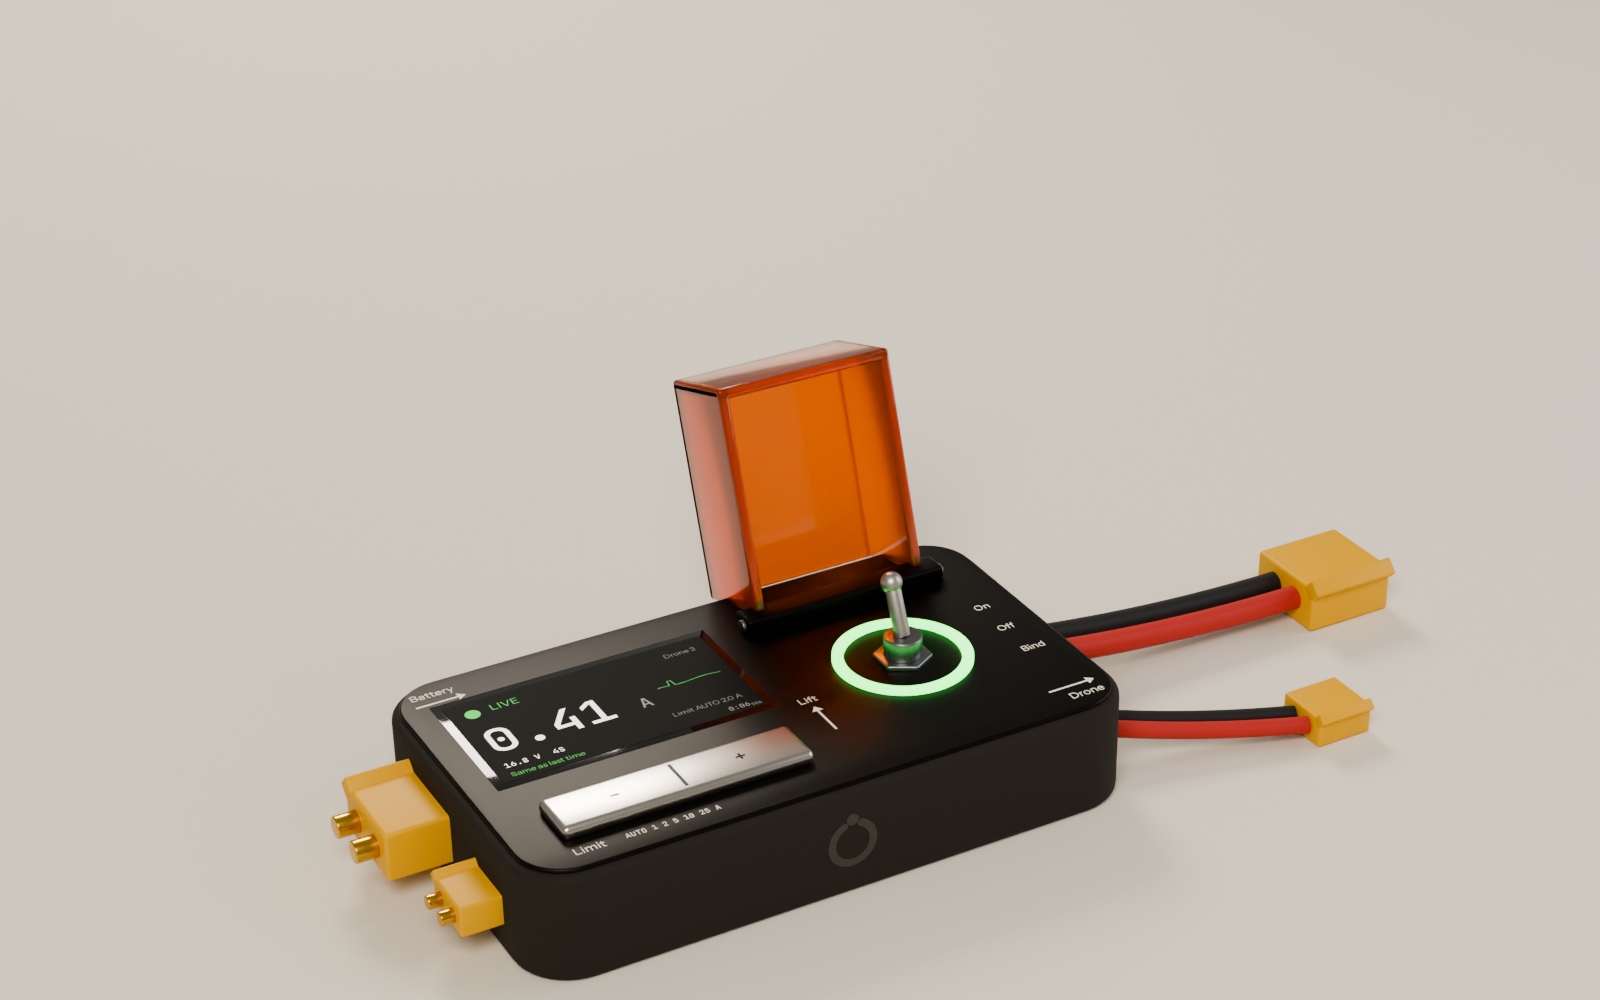
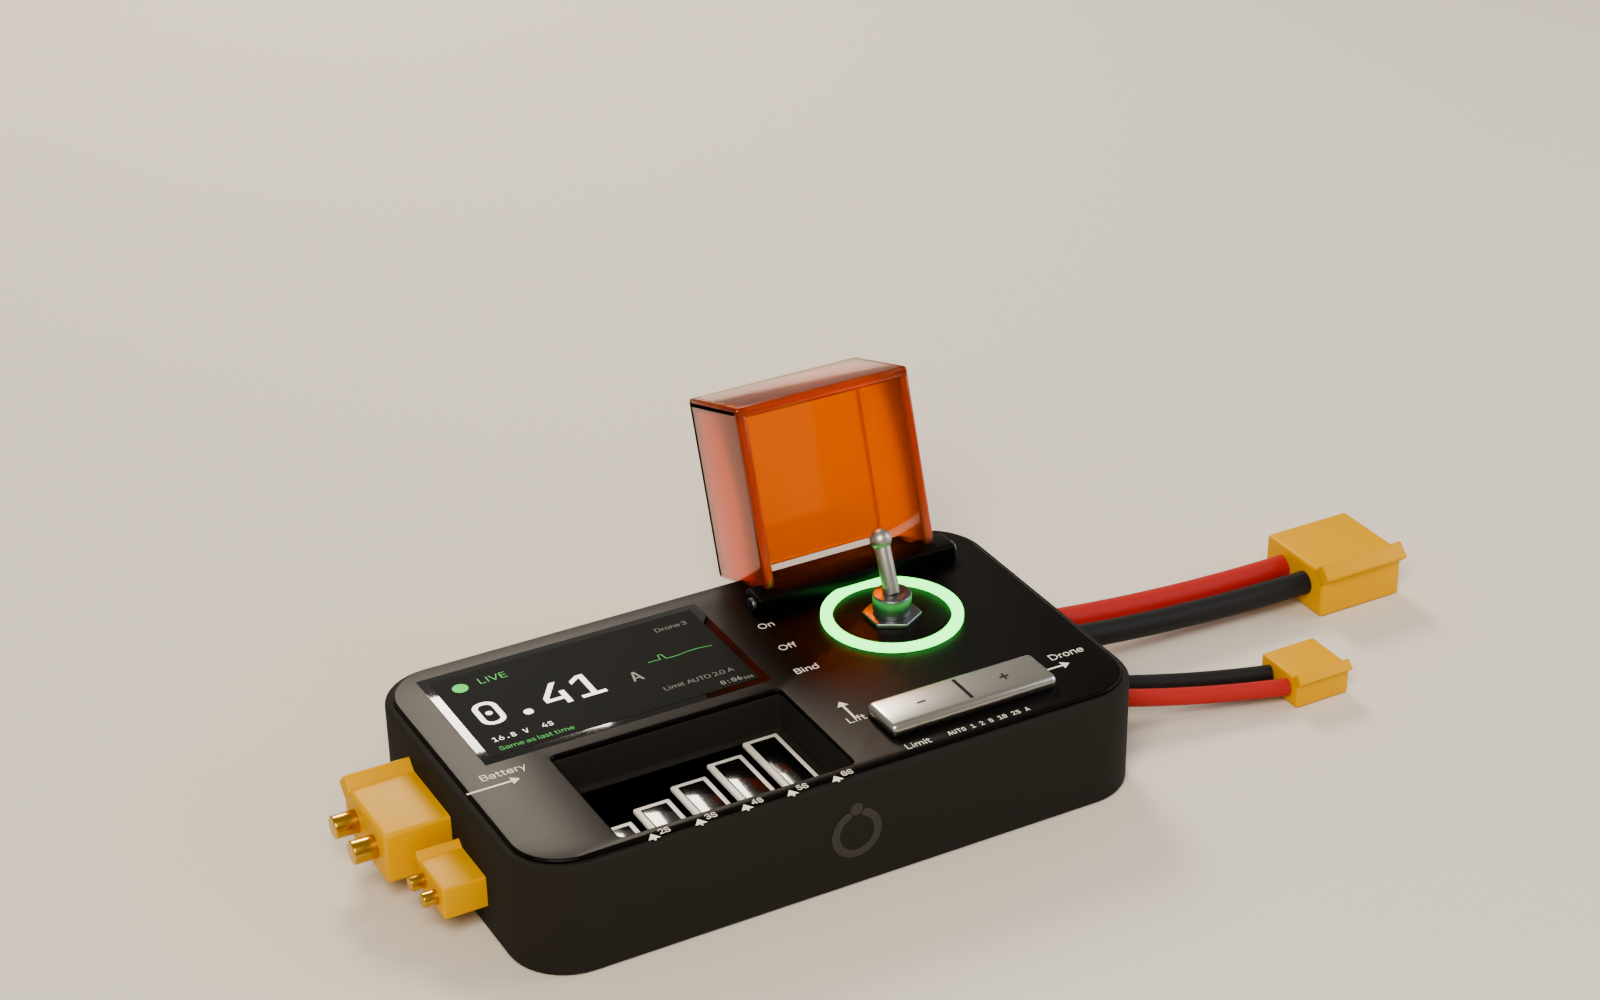
README: layout A assembly (top-entry well, drone leads, M3 holes), mechanical notes; case model follows the board
Claude-Session: https://claude.ai/code/session_01SBnFJLvm1wBa1jZy4RXnma

diff --git a/smokebreak/design/arm/arm.py b/smokebreak/design/arm/arm.py
@@ -30,20 +30,45 @@ UI_VIDEO = os.path.join(SB, 'ui', 'arm-sequence.mp4')
 
 # ---------------------------------------------------------------- geometry
 W, D, H, R = 100.0, 58.0, 18.0, 9.0       # body
-TX, TY = 70.0, 31.0                        # toggle, face coords (x from left, y from back) = PCB (67, 28) + 3 mm wall
-HY = 12.0                                  # guard hinge line, face y
-GL, GW, GH = 36.0, 30.0, 17.0              # guard length, width, wall height
+WALL = 3.0                                 # the PCB (94 x 52) sits 3 mm in from every outside face
+PCB_Z = 4.5                                # its top face (11.5 mm under the panel's underside)
+TX, TY = 76.2, 22.5                        # toggle, face coords (x from left, y from back) = PCB (73.2, 19.5) + wall
+HY = 10.5                                  # guard hinge line, face y
+GL, GW, GH = 29.0, 30.0, 17.0              # guard length (its tip over the hall switch at PCB y 36.6), width, height
 RING = 10.0                                # status light round the toggle (a plain ring, not the mark)
 MARK_R = 3.4                               # the mark on the front wall: ring radius (8.1 mm wide)
 OPEN = 108.0                               # open angle, degrees
 LEVER_ON, LEVER_OFF, LEVER_BIND = 24.0, 0.0, -24.0
-SCR = (28.5, 21.0, 46.0, 26.0)             # screen window centre x, y, width, height (face coords)
+SCR = (29.0, 17.0, 46.0, 26.0)             # screen window centre x, y, width, height (face coords)
 ACTIVE = (42.7, 22.7)                      # 1.9" 320 x 170 IPS active area
 
 
 def F(x, y):
     """Face coordinates (x from the left edge, y from the back edge) to world."""
     return (x - W / 2, D / 2 - y)
+
+
+def P(x, y):
+    """PCB coordinates (v1/src/place.py) to world."""
+    return F(x + WALL, y + WALL)
+
+
+def cut(target, size, loc, bevel=0.8):
+    """Boolean a rounded box out of target."""
+    c = s.box(size, loc, m='pitch', bevel=bevel, name='cutter')
+    mod = target.modifiers.new('cut', 'BOOLEAN')
+    mod.operation, mod.object, mod.solver = 'DIFFERENCE', c, 'EXACT'
+    with bpy.context.temp_override(object=target, active_object=target):
+        bpy.ops.object.modifier_move_to_index(modifier='cut', index=0)   # before the edge bevel
+        bpy.ops.object.modifier_apply(modifier='cut')
+    bpy.data.objects.remove(c, do_unlink=True)
+    return target
+
+
+# the balance well: top-entry JST-XH sockets (PCB x, pins), pin 1 (the black
+# wire) on one line at PCB y 48, pins running back 2.5 mm apart
+SOCKETS = ((16.0, 3), (23.1, 4), (30.2, 5), (37.3, 6), (44.4, 7))
+PIN1_Y, XH_D, XH_H = 48.0, 5.75, 7.0
 
 
 def rbox(w, d, h, r, loc, m, edge=1.4, name='rbox'):
@@ -125,9 +150,30 @@ def screen_plane(m):
 def build(still_frame=None):
     """The product. Returns the handles the animation drives."""
     top = H
-    rbox(W, D, H, R, (0, 0, H / 2), 'pitch_soft', name='body')
+    body = rbox(W, D, H, R, (0, 0, H / 2), 'pitch_soft', name='body')
     # a thin anodised band where the face meets the body
-    rbox(W - 2.4, D - 2.4, 1.0, R - 1.2, (0, 0, H + 0.1), 'anodised', edge=0.4, name='face-plate')
+    plate = rbox(W - 2.4, D - 2.4, 1.0, R - 1.2, (0, 0, H + 0.1), 'anodised', edge=0.4, name='face-plate')
+    # the balance well: one recess over the five sockets, down to their tops
+    floor = PCB_Z + XH_H
+    x0, x1 = SOCKETS[0][0] - XH_D / 2 - 1.2, SOCKETS[-1][0] + XH_D / 2 + 1.2
+    y0, y1 = PIN1_Y - 2.5 * (SOCKETS[-1][1] - 1) - 2.45 - 1.2, PIN1_Y + 2.45 + 1.6
+    (wx0, wy0), (wx1, wy1) = P(x0, y0), P(x1, y1)
+    wsize = (wx1 - wx0, wy0 - wy1, top + 2 - floor)
+    wloc = ((wx0 + wx1) / 2, (wy0 + wy1) / 2, floor + wsize[2] / 2)
+    for o in (body, plate):
+        cut(o, wsize, wloc)
+    s.box((wsize[0], wsize[1], 0.4), (wloc[0], wloc[1], floor - 0.2), m=s.mat('well', '#0B0A08', 0.7),
+          bevel=0.3, name='well-floor')
+    white = s.mat('jst nylon', '#EDEAE2', 0.55)
+    for x, pins in SOCKETS:
+        L = 2.5 * (pins - 1) + 4.9
+        cx, cy = P(x, PIN1_Y - 1.25 * (pins - 1))
+        s.box((XH_D, L, 1.0), (cx, cy, floor + 0.1), m=white, bevel=0.3, name=f'xh{pins - 1}s')
+        s.box((XH_D - 1.6, L - 1.8, 1.1), (cx, cy, floor + 0.15), m='screen', bevel=0.2, name=f'xh{pins - 1}s-mouth')
+        # its size on the face's front lip, an arrow at pin 1 (the black wire)
+        lx, ly = P(x, y1 + 0.2)
+        s.text(f'{pins - 1}S', 1.4, (lx + 0.9, ly - 1.4, top + 0.62), align='LEFT')
+        s.arrow(1.6, (lx - 0.2, ly - 2.1, top + 0.62), rot_z=90, shaft=0.3, head=0.9)
 
     # screen: black glass window with the live panel under it
     x, y = F(SCR[0], SCR[1])
@@ -138,15 +184,16 @@ def build(still_frame=None):
         tex.image = bpy.data.images.load(os.path.join(UI_FRAMES, f'f{still_frame:05d}.png'))
     screen_plane(smat)
 
-    # Limit rocker: an aluminium paddle over two switches, with the steps printed beneath
-    x, y = F(SCR[0], 45.5)
-    s.box((40, 9, 2.4), (x, y, top + 1.4), m='brushed', bevel=1.0, name='rocker')
-    s.box((0.5, 6, 0.1), (x, y, top + 2.62), m='screen', bevel=0, name='rocker-split')
-    s.text('–', 3.0, (x - 10, y, top + 2.62), m='pitch', mono=True)
-    s.text('+', 3.0, (x + 10, y, top + 2.62), m='pitch', mono=True)
-    x, y = F(8.5, 53.0)
-    s.text('Limit', 1.9, (x, y, top + 0.62), align='LEFT')
-    s.text('AUTO 1 2 5 10 25 A', 1.3, (x + 8, y, top + 0.62), mono=True, align='LEFT')
+    # Limit rocker: an aluminium paddle over its two switches (PCB x 60 and 80),
+    # the beeper between them; the steps printed in front
+    x, y = P(70.0, 45.5)
+    s.box((28, 8, 2.4), (x, y, top + 1.4), m='brushed', bevel=1.0, name='rocker')
+    s.box((0.5, 5.5, 0.1), (x, y, top + 2.62), m='screen', bevel=0, name='rocker-split')
+    s.text('–', 3.0, (x - 7, y, top + 2.62), m='pitch', mono=True)
+    s.text('+', 3.0, (x + 7, y, top + 2.62), m='pitch', mono=True)
+    x, y = F(59.5, 55.2)
+    s.text('Limit', 1.6, (x, y, top + 0.62), align='LEFT')
+    s.text('AUTO 1 2 5 10 25 A', 1.2, (x + 7, y, top + 0.62), mono=True, align='LEFT')
 
     # toggle with its status light round the bushing
     rmat = ring_material()
@@ -162,8 +209,8 @@ def build(still_frame=None):
               s.sphere(1.7, (0, 0, L), m='aluminium', name='lever-tip')):
         p.parent = lever
     for lab, dy in (('On', -7.0), ('Off', 0.0), ('Bind', 7.0)):
-        x, y = F(TX + 17.0, TY + dy)
-        s.text(lab, 1.8, (x, y, top + 0.62), align='LEFT')
+        x, y = F(TX - GW / 2 - 1.6, TY + dy)
+        s.text(lab, 1.8, (x, y, top + 0.62), align='RIGHT')
 
     # guard: translucent Ember polycarbonate, pivoting on a steel pin at its
     # base at the back; closed, its walls stand on the face and its top
@@ -183,17 +230,17 @@ def build(still_frame=None):
               s.box((GW, 1.8, GH), (0, -GL - 0.1, GH / 2), m=gm, bevel=0.6, name='guard-lip')):
         p.parent = guard
     # an arrow on the face, beside the guard: lift
-    x, y = F(TX - 18.5, TY + 9)
-    s.arrow(7, (x, y, top + 0.62), rot_z=90, shaft=0.35, head=0.9)
-    s.text('Lift', 1.8, (x, y + 5.6, top + 0.62))
+    x, y = F(TX - GW / 2 - 4.0, TY + 20.0)
+    s.arrow(5, (x, y, top + 0.62), rot_z=90, shaft=0.35, head=0.9)
+    s.text('Lift', 1.8, (x, y - 2.6, top + 0.62))
 
     # face printing: in and out
-    x, y = F(4.0, 4.8)
+    x, y = F(4.0, 32.6)
     s.text('Battery', 1.9, (x, y, top + 0.62), align='LEFT')
-    s.arrow(8, (x + 4, y - 2.6, top + 0.62), shaft=0.35, head=0.9)
-    x, y = F(W - 4.0, D - 4.8)
+    s.arrow(8, (x + 1, y - 2.6, top + 0.62), shaft=0.35, head=0.9)
+    x, y = F(W - 4.0, 45.0)
     s.text('Drone', 1.9, (x, y, top + 0.62), align='RIGHT')
-    s.arrow(8, (x - 4, y + 2.6, top + 0.62), shaft=0.35, head=0.9)
+    s.arrow(8, (x - 8, y - 2.6, top + 0.62), shaft=0.35, head=0.9)
     # the brand, placed like Apple places its mark: never on the working
     # face, never round a control.  The mark alone, centred on the front
     # wall that faces the user, tone on tone (gloss black on soft-touch
@@ -203,25 +250,20 @@ def build(still_frame=None):
                   m=s.mat('gloss pitch', '#0E0C09', 0.08, coat=1.0), name='mark-front')
     s.lockup(30.0, (0, 4, -0.03), rot=(180, 0, 0), m=s.mat('deboss', '#141210', 0.5), name='lockup-under')
 
-    # connectors: male XT60 + XT30 in, female leads out, USB-C in the front wall
-    # at the battery end, the five balance sockets (2S-6S) along the back wall
-    x, y = F(0, 20.75)
-    s.xt60((x - 2, y, 9), male=True, name='in60')
-    x, y = F(0, 42)
-    s.xt30((x - 1.5, y, 8), male=True, name='in30')
-    x, y = F(W, 22)
-    s.leads((x - 3, y, 8), (x + 52, y - 2, 4.4), sep=5.5, radius=2.0, sag=4, name='out60-lead')
+    # connectors: male XT60 + XT30 through the battery end wall (PCB J1, J2);
+    # the drone's leads (soldered to the PCB's pads J3, J4) out of the far
+    # end, female plugs on them; USB-C through the back wall (PCB J8)
+    x, y = P(-WALL, 20.0)
+    s.xt60((x - 2, y, PCB_Z + 4.1), male=True, name='in60')
+    x, y = P(-WALL, 34.8)
+    s.xt30((x - 1.5, y, PCB_Z + 2.55), male=True, name='in30')
+    x, y = P(94 + WALL, 18.2)                    # + at PCB y 15.2 (red), - at 21.2
+    s.leads((x - 3, y, 7.5), (x + 52, y - 2, 4.4), sep=-6.0, radius=2.0, sag=4, name='out60-lead')
     s.xt60((x + 60, y - 2, 4.1), rot=(0, 0, 180), male=False, name='out60')
-    x, y = F(W, 44)
-    s.leads((x - 3, y, 7), (x + 32, y - 12, 2.8), sep=3.6, radius=1.4, sag=3, name='out30-lead')
-    s.xt30((x + 37, y - 12, 2.6), rot=(0, 0, 180), male=False, name='out30')
-    s.usb_c((F(15.0, D)[0], -D / 2 - 0.1, 6.1), rot=(0, 0, 90))      # board (12, 52): PCB top at z 4.5
-    for x_board, pins in ((16.93, 7), (37.03, 6), (54.53, 5), (69.61, 4), (82.19, 3)):
-        w = (pins - 1) * 2.5 + 5.2                                       # JST-XH side-entry mouth + 0.3
-        s.box((w, 1.0, 6.4), (F(x_board + 3.0, 0)[0], D / 2 + 0.02, 7.55), m='screen', bevel=0.5,
-              name=f'balance-{pins - 1}s')
-        s.text(f'{pins - 1}S', 1.6, (F(x_board + 3.0, 0)[0], D / 2 + 0.06, 13.2), rot=(90, 0, 180),
-               name=f'balance-{pins - 1}s-label')
+    x, y = P(94 + WALL, 33.7)                    # + at PCB y 36.0 (red), - at 31.4
+    s.leads((x - 3, y, 6.5), (x + 32, y - 10, 2.8), sep=4.6, radius=1.4, sag=3, name='out30-lead')
+    s.xt30((x + 37, y - 10, 2.6), rot=(0, 0, 180), male=False, name='out30')
+    s.usb_c((P(66.0, 0)[0], D / 2 + 0.1, PCB_Z + 1.6), rot=(0, 0, -90))
     return dict(guard=guard, lever=lever, ring=rmat)
 
 

diff --git a/smokebreak/v1/README.md b/smokebreak/v1/README.md
@@ -36,37 +36,58 @@ metal toggle and a status-light ring.
 2. **Assembly** → turnkey, top side only. Upload `fab/smokebreak-bom-pcbway.csv`
    and `fab/smokebreak-cpl.csv`. Lines marked THT ("supplied loose") are not
    fitted: ask PCBWay to ship them loose with the boards, or buy them
-   separately: XT60PW-M, XT30PW-M, XT60PW-F, XT30PW-F, JST S3B/S4B/S5B/S6B/S7B-XH-A
-   (one each), the toggle, 2 × Vishay AC05 3.9 Ω.
+   separately: XT60PW-M, XT30PW-M, JST B3B/B4B/B5B/B6B/B7B-XH-A (top entry, one
+   each), the toggle, 2 × Vishay AC05 3.9 Ω, and the drone leads: an XT60H
+   female on 12 AWG and an XT30U female on 16 AWG silicone, 50–75 mm each.
 3. The display (1.9" 170 × 320 ST7789, 30-pin 0.5 mm FPC) is bought separately
    and plugs into J7.
 
 ## Hand assembly (from the bottom; the bottom silkscreen says what goes where)
 
-1. Pre-charge resistors R_PRE, R_PRE2 (end to end behind the sockets): lie
-   them flat on the top, bend the leads, solder, trim to 1.5 mm.
-2. Balance sockets J12 (2S), J11 (3S), J10 (4S), J9 (5S), J5 (6S) along the
-   back edge, mouths 3 mm past the board edge (flush with the case's outer
-   wall). The bottom silkscreen names each one and points at pin 1 (black
-   wire). USB-C (front) is already on.
-3. XT60/XT30 male on the left (battery), female on the right (drone): seat
-   fully, solder with a big iron (the pads are on the power planes), trim to
-   1.5 mm (the case floor is 1.9 mm below the board).
-4. Toggle SW1 last, with the lever upright; check it sits 8.9 mm proud.
+The battery end carries everything a pack plugs into: XT60 and XT30 male
+through the end wall, and right behind them the balance well, five top-entry
+sockets with pin 1 (the black wire) of every one on the same line at the
+front. The drone end has no connector on the board: two short leads with
+female plugs are soldered to pads.
+
+1. Pre-charge resistors R_PRE, R_PRE2 (end to end along the back): lie them
+   flat on the top, bend the leads, solder, trim to 1.5 mm.
+2. Balance sockets J12 (2S), J11 (3S), J10 (4S), J9 (5S), J5 (6S), mouths up,
+   latch side as the silkscreen outline shows. The bottom silkscreen names
+   each one, with an arrow at pin 1 (black wire). USB-C (back wall) is
+   already on.
+3. XT60 (J1) and XT30 (J2) male at the battery end, mating face past the
+   edge: seat fully, solder with a big iron (the pads are on the power
+   planes), trim to 1.5 mm.
+4. Drone leads: strip 5 mm, tin, push through J3 (XT60 lead, 12 AWG) and J4
+   (XT30 lead, 16 AWG) from the top, red to the square pad (+, marked on
+   both sides), solder from the bottom; a 2.5 mm zip tie through each
+   pair's slots is the strain relief. The minus pads face each other, by
+   the shunt.
+5. Toggle SW1 last, with the lever upright; check it sits 8.9 mm proud.
+6. Four M3 × 6 screws with DIN 125 washers into the case bosses (2 to
+   3 kgf·cm is plenty; the plated rings take the washers, nothing else is
+   within 4.7 mm of a hole).
 
 ## Mechanical
 
 - Board top face 11.5 mm under the top panel's underside: the XT connectors'
-  axes sit at the body's mid-height. Under the screen (x 2.5–48.5, y 5–31)
-  nothing is taller than 8.1 mm (the pre-charge resistors are 7.5 mm).
-- Back wall: five balance openings, 2S–6S left to right seen from behind,
-  1 mm ribs between them; each socket's mouth is flush with the outer face.
-  A plug only fits its own socket, so it cannot sit a pin off.
-- Front wall: USB-C at the battery end, well clear of the centred mark.
+  axes sit at the body's mid-height. Under the screen (x 3–49, y 1–27)
+  nothing is taller than 8.5 mm (XT60 8.2, the pre-charge resistors 7.5).
+- The balance well: one recess in the face over x 12–48.6, y 29–52 (board),
+  floored at the sockets' tops (7 mm); 2S–6S on the face's front lip, an
+  arrow at each pin 1. Every plug's black wire lands at the front, 8–40 mm
+  from its pack's power plug, so short-lead packs reach.
+- Back wall: USB-C (J8). Drone end: the two leads through a grommeted slot.
 - The toggle's shoulder seats on a 2.6 mm printed boss under the panel.
 - The guard's magnet (6 × 3 mm N52) sits in the guard tip over the hall
-  sensor U6.
-- Mounting: 4 × M2.5 at 3.6 mm from each corner.
+  sensor U6 (board 73.2, 36.6).
+- Mounting: 4 × M3, 5 mm in from each edge; plated 7.4 mm rings for DIN 125
+  washers (7.0 mm), a 9.4 mm keep-out round each with no track or via on
+  any layer, so a tight screw cannot crack anything.
+- Underside art: the OffGrid lockup at the exact centre, SmokeBreak along
+  the back on the same centre line, the US flag (Flag Code proportions) at
+  the drone end's front corner; all four sit in via-free fields.
 
 ## Bring-up (first boards)
 
